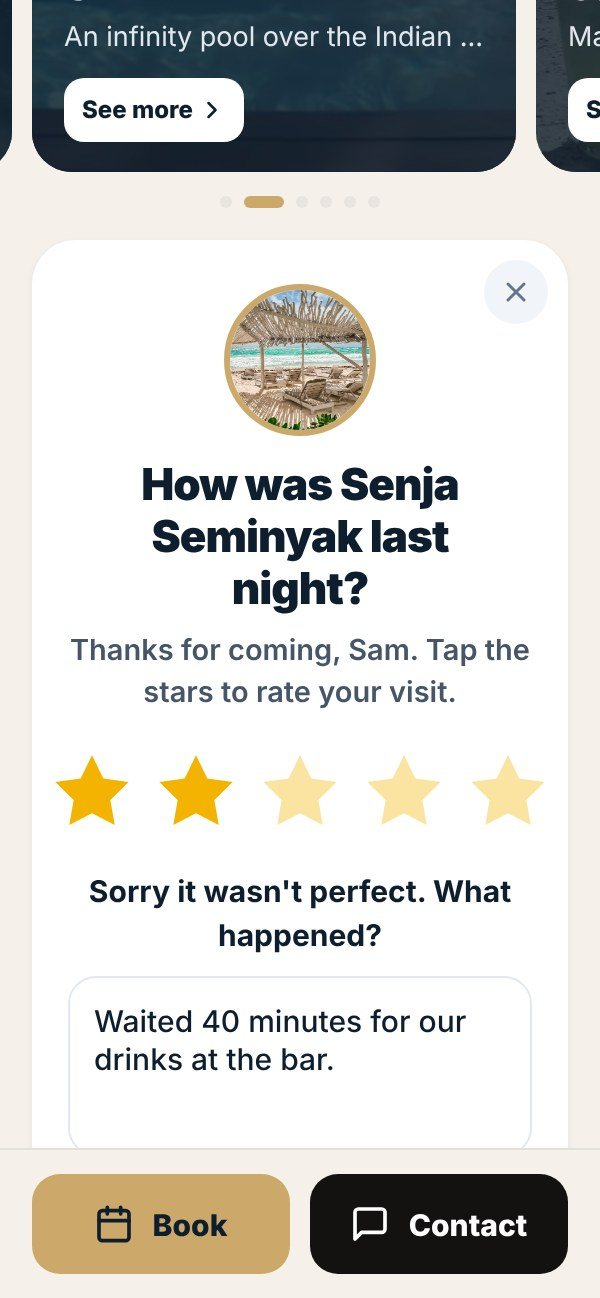
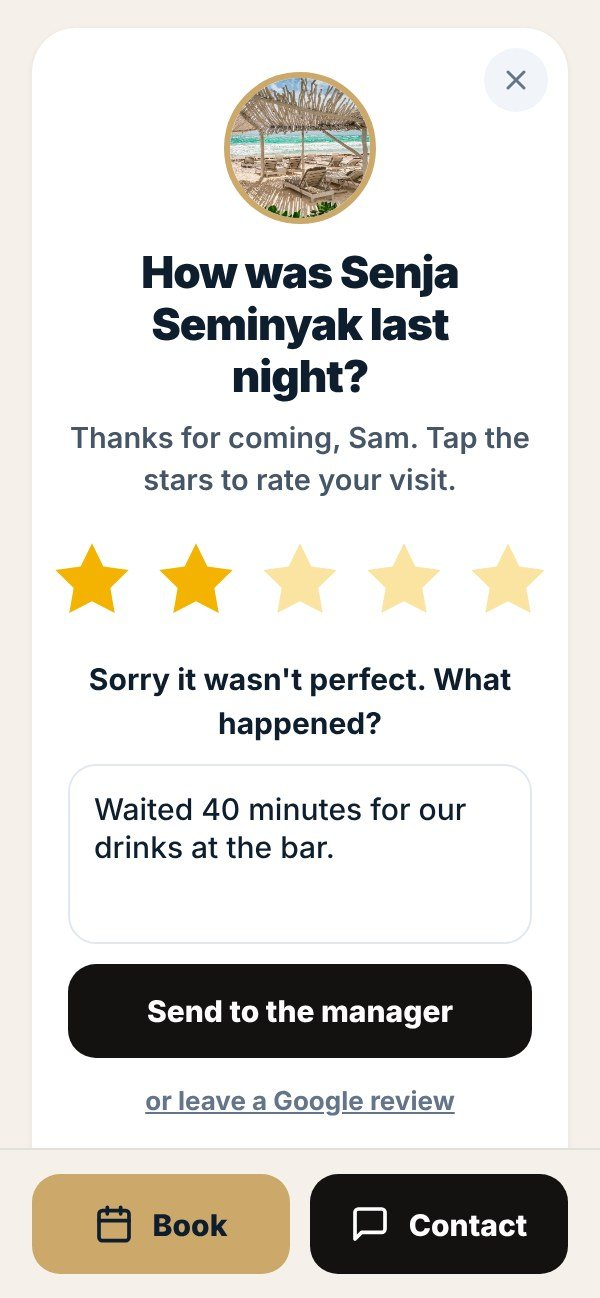
Membership page: reviews down to 3 different screens, no repeated page
Claude-Session: https://claude.ai/code/session_01PDrfwPm1ywymGCuyADBdVM

diff --git a/membership/index.html b/membership/index.html
@@ -481,7 +481,7 @@ h2{letter-spacing:-1px;line-height:1.1}
 
 <section class="feat sand" id="reviews"><div class="wrap">
   <div class="copy"><div class="kick">Google reviews</div><h2>More 5-star reviews. <span class="hl">Bad ones come to you first.</span></h2><p class="lead">The day after a visit, their app asks how it was. Happy guests go to Google. Unhappy ones talk to you, privately.</p></div>
-  <div class="phones four rv"><div><div class="phone"><img src="/img/mem2/r-ask.jpg" alt="How was Senja Seminyak last night?" loading="lazy"></div><span class="cap">1. "How was it last night?"</span></div><div><div class="phone"><img src="/img/mem2/r-5.jpg" alt="Five stars: leave a Google review" loading="lazy"></div><span class="cap">2. 4 or 5 stars: off to Google</span></div><div><div class="phone"><img src="/img/mem2/r-2b.jpg" alt="Two stars: Sorry it wasn't perfect, what happened?" loading="lazy"></div><span class="cap">3. 1 to 3 stars: tell us privately</span></div><div><div class="phone nt-lock" role="img" aria-label="The manager gets a notification with the feedback"><i class="bg"></i><div class="lk-t">10:14</div><div class="lk-d">Sunday, 14 December</div><div class="lk-n"><img src="/img/mem2/senja-icon.png" alt=""><div><small>Mavis · now</small><b>★★ feedback · Senja Seminyak</b><p>Sam: Waited 40 minutes for our drinks at the bar.</p></div></div></div><span class="cap">4. Your manager's phone buzzes</span></div></div>
+  <div class="phones rv"><div><div class="phone"><img src="/img/mem2/r-5.jpg" alt="How was Senja Seminyak last night? Five stars: leave a Google review" loading="lazy"></div><span class="cap">1. 4 or 5 stars: off to Google</span></div><div><div class="phone"><img src="/img/mem2/r-2b.jpg" alt="Two stars: Sorry it wasn't perfect, what happened?" loading="lazy"></div><span class="cap">2. 1 to 3 stars: only you see it</span></div><div><div class="phone nt-lock" role="img" aria-label="The manager gets a notification with the feedback"><i class="bg"></i><div class="lk-t">10:14</div><div class="lk-d">Sunday, 14 December</div><div class="lk-n"><img src="/img/mem2/senja-icon.png" alt=""><div><small>Mavis · now</small><b>★★ feedback · Senja Seminyak</b><p>Sam: Waited 40 minutes for our drinks at the bar.</p></div></div></div><span class="cap">3. Your manager's phone buzzes</span></div></div>
   <div class="swipe">SWIPE FOR MORE &rarr;</div>
 </div></section>
 
